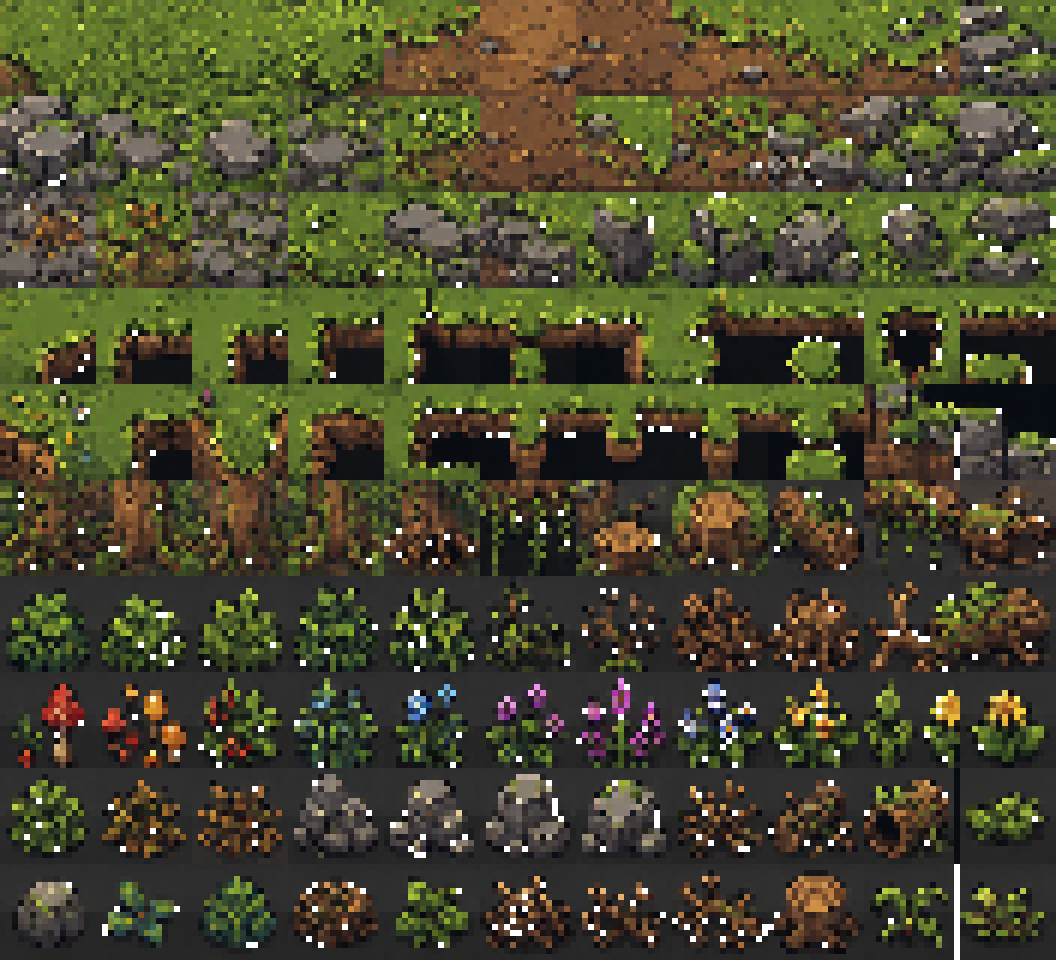
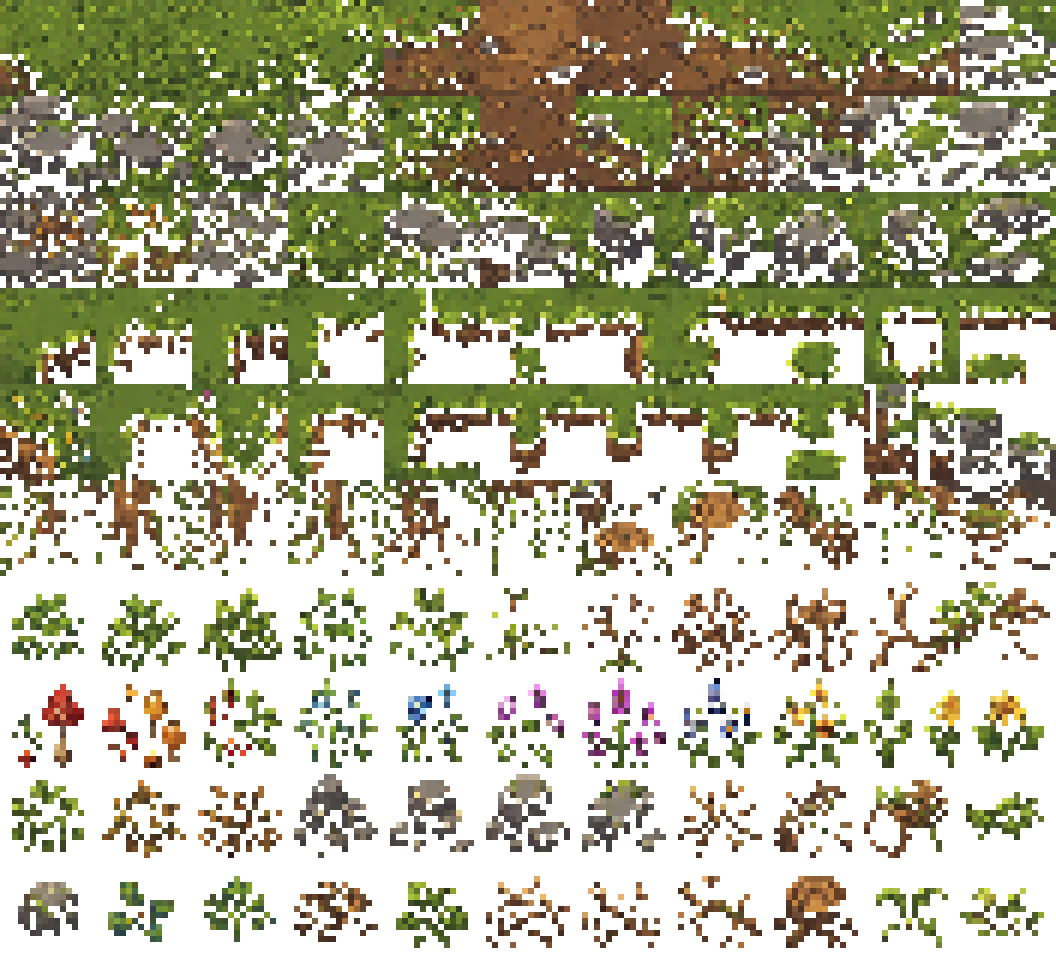
Fix: afuera atlas backgrounds transparent via chromatic filter
Previous near-black threshold (<30 brightness) missed the dark GRAY
background (~40-50 RGB) of the source PNG, leaving ugly gray boxes
around each decoration tile.

New approach:
1. detect_bg_color() samples 8 perimeter pixels per tile to estimate
   the actual background color.
2. is_background_px() considers a pixel "background" only if it's
   dark (brightness < 180) AND grayscale (max-min < 28) — preserves
   saturated colors of vegetation (green leaves, brown trunks, red
   mushrooms, colored flowers).
3. Per-pixel match against detected bg color (tolerance 45) makes the
   actual gray background transparent without erasing dark-but-colored
   decoration pixels.

Rows 5-9 (used by BIOME_DECORS: trees, bushes, mushrooms, flowers,
rocks, stumps) now have clean transparent backgrounds. Rows 0-4
(unused fill tiles) are damaged by the filter — acceptable.

diff --git a/tools/process_afuera.py b/tools/process_afuera.py
@@ -85,21 +85,64 @@ COLS = len(col_regions)
 ROWS = len(row_regions)
 print(f"Final grid: {COLS}x{ROWS}")
 
+def is_background_px(r, g, b):
+    """True si el pixel es fondo grisáceo oscuro (no decoración).
+    Mantiene pixeles oscuros pero CON COLOR (verde árbol, marrón tronco, rojo hongo)."""
+    brightness = r + g + b
+    if brightness > 180:
+        return False  # claro, definitivamente no es fondo
+    mx = max(r, g, b)
+    mn = min(r, g, b)
+    saturation = mx - mn
+    # Fondo: oscuro AND grisáceo (saturación baja)
+    return brightness < 180 and saturation < 28
+
+
+def detect_bg_color(tile_img):
+    """Estima el color de fondo muestreando esquinas + borde."""
+    px = tile_img.load()
+    w, h = tile_img.size
+    samples = []
+    # Esquinas y centros de bordes
+    for (x, y) in [(0, 0), (w - 1, 0), (0, h - 1), (w - 1, h - 1),
+                    (w // 2, 0), (w // 2, h - 1), (0, h // 2), (w - 1, h // 2)]:
+        p = px[x, y]
+        samples.append(p[:3])
+    # Promedio
+    avg_r = sum(s[0] for s in samples) // len(samples)
+    avg_g = sum(s[1] for s in samples) // len(samples)
+    avg_b = sum(s[2] for s in samples) // len(samples)
+    return (avg_r, avg_g, avg_b)
+
+
 out = Image.new("RGBA", (COLS * T_OUT, ROWS * T_OUT), (0, 0, 0, 0))
 for r, (y0, y1) in enumerate(row_regions):
     for c, (x0, x1) in enumerate(col_regions):
-        tile = src.crop((x0, y0, x1, y1))
-        # Treat very dark pixels as transparent (background)
-        tile_rgba = tile.convert("RGBA")
-        pxt = tile_rgba.load()
-        tw, th = tile_rgba.size
+        tile = src.crop((x0, y0, x1, y1)).convert("RGBA")
+        pxt = tile.load()
+        tw, th = tile.size
+        # Estima color de fondo de esta tile (puede variar entre tiles)
+        bg = detect_bg_color(tile)
+        # Solo aplicar bg-removal si el detected bg es oscuro+grisáceo
+        bg_is_background = is_background_px(*bg)
         for ty in range(th):
             for tx in range(tw):
-                rr, gg, bb, _aa = pxt[tx, ty]
-                if rr + gg + bb < 30:  # near-black → transparent (esto separa decoración del fondo)
+                rr, gg, bb, aa = pxt[tx, ty]
+                if aa == 0:
+                    continue
+                # Match al bg detectado (tolerancia color)
+                if bg_is_background:
+                    dr = abs(rr - bg[0])
+                    dg = abs(gg - bg[1])
+                    db = abs(bb - bg[2])
+                    if dr + dg + db < 45:
+                        pxt[tx, ty] = (0, 0, 0, 0)
+                        continue
+                # Fallback chromático: oscuro Y grisáceo → fondo
+                if is_background_px(rr, gg, bb):
                     pxt[tx, ty] = (0, 0, 0, 0)
-        tile_rgba = tile_rgba.resize((T_OUT, T_OUT), Image.NEAREST)
-        out.paste(tile_rgba, (c * T_OUT, r * T_OUT))
+        tile = tile.resize((T_OUT, T_OUT), Image.NEAREST)
+        out.paste(tile, (c * T_OUT, r * T_OUT))
 
 out.save(OUT)
 out.resize((COLS * T_OUT * 6, ROWS * T_OUT * 6), Image.NEAREST).save(